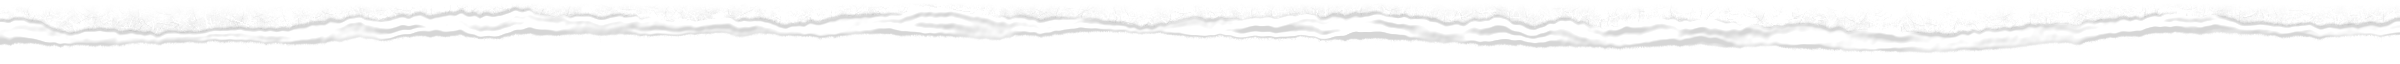
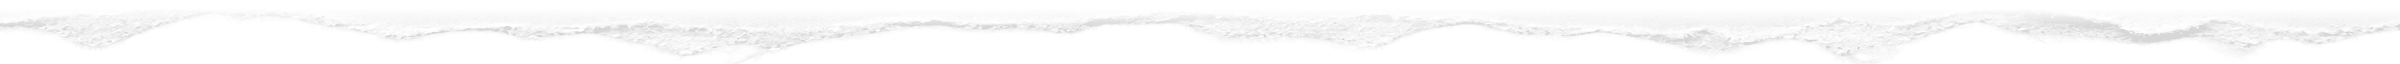
feat: add generated eggshell torn paper artwork

diff --git a/tools/prepare_torn_paper.py b/tools/prepare_torn_paper.py
@@ -1,0 +1,69 @@
+#!/usr/bin/env python3
+"""Prepare the generated eggshell master: python3 tools/prepare_torn_paper.py.
+
+Only numpy and Pillow are needed. The original procedural alternative remains
+in torn_paper.py. Prompt and provenance are in torn-paper-generation.json.
+"""
+from pathlib import Path
+import argparse
+
+import numpy as np
+from PIL import Image
+
+
+def save(folder, name, rgb, alpha, lossless=False):
+    rgba = np.dstack((np.clip(rgb, 0, 255).astype('uint8'), alpha))
+    image = Image.fromarray(rgba)
+    image.save(folder / (name + '.png'), optimize=True)
+    image.save(folder / (name + '.webp'), lossless=lossless, quality=90,
+               alpha_quality=100, method=6, exact=True)
+
+
+def main():
+    root = Path(__file__).resolve().parent.parent
+    parser = argparse.ArgumentParser(description=__doc__)
+    parser.add_argument('--out', type=Path, default=root / 'uploads')
+    args = parser.parse_args()
+    args.out.mkdir(parents=True, exist_ok=True)
+    source = Image.open(root / 'tools/torn-paper-source.png').convert('RGBA')
+    raw = np.array(source)
+    solid = raw[..., 3] > 180
+    first = solid.argmax(axis=0)
+    last = len(raw) - 1 - solid[::-1].argmax(axis=0)
+    # The generated paper body is slightly translucent; seal only its interior.
+    y = np.arange(len(raw))[:, None]
+    raw[..., 3] = np.where((y >= first) & (y <= last), 255, raw[..., 3])
+    raw[..., 3][raw[..., 3] < 12] = 0
+    # Crop vertical blank space only. The strip spans the width without repeats.
+    top, bottom = max(0, first.min() - 12), min(len(raw), last.max() + 13)
+    raw = raw[top:bottom]
+    alpha = np.array(Image.fromarray(raw[..., 3]).resize((2400, 260), Image.Resampling.LANCZOS))
+    # Neutralise generated fringe colour noise, retaining its light and relief.
+    grey = np.array(Image.fromarray(raw[..., :3]).convert('L').resize(
+        (2400, 260), Image.Resampling.LANCZOS)).astype(float)
+    body = np.median(grey[90:170])
+    core = np.clip((grey - body) / max(250 - body, 1), 0, 1)[..., None]
+    rgb = np.array([243, 237, 217]) + (grey - body)[..., None]
+    rgb += core * np.array([0, 5, 15])
+    rgb = np.clip(rgb, 210, 255)
+    rgb[alpha == 0] = [243, 237, 217]
+    save(args.out, 'torn-band', rgb, alpha)
+    white = np.full((64, 2400, 3), 255, dtype='uint8')
+    for side, section in [('bottom', slice(-64, None)), ('top', slice(0, 64))]:
+        edge_alpha = alpha[section].copy()
+        inner = slice(0, 2) if side == 'bottom' else slice(-2, None)
+        edge_alpha[inner] = 255
+        # Relief can only darken the section; the lip stays the section colour.
+        shade = np.clip(250 - grey[section], 0, 40)
+        fade = np.clip((np.arange(64) - 8) / 18, 0, 1)
+        if side == 'top':
+            fade = fade[::-1]
+        texture = np.repeat((255 - shade * fade[:, None])[..., None], 3, axis=2)
+        texture[inner] = 255
+        texture[edge_alpha == 0] = 255
+        save(args.out, 'torn-' + side, white, edge_alpha, lossless=True)
+        save(args.out, 'torn-' + side + '-tex', texture, edge_alpha)
+
+
+if __name__ == '__main__':
+    main()

diff --git a/README.md b/README.md
@@ -86,34 +86,41 @@ coloured card wearing torn edges.
 
 ### Regenerating the torn paper
 
-Every torn-paper asset is generated from scratch by `tools/torn_paper.py`
-(numpy and Pillow, nothing else): a fractal tear line; a wide white lip where
-the torn core rolls up, modelled as a height field with creases that wander
-and fade; a fine fuzz of fibres past the edge; laid-paper ribbing, a fibre
-network and mottling; and relief lighting from above. Being procedural, the files
-are original work with no stock licence attached.
+The current artwork uses **warm eggshell / light yellow** paper, as requested by
+Cleo on 2026-10-15, replacing the brief's neutral grey. Its original master was
+generated from scratch with OpenAI's built-in image generation tool, without
+stock images, tracing or sampling the historical reference. The source is
+`tools/torn-paper-source.png`; the full prompt and provenance are in
+`tools/torn-paper-generation.json`.
+
+Under the [OpenAI Terms of Use](https://openai.com/policies/terms-of-use/)
+(effective January 1, 2026), as between the user and OpenAI and to the extent
+permitted by applicable law, the user owns the output. Output may not be unique;
+use remains subject to applicable terms and third-party rights. These assets
+are AI-generated, not photographs or hand-made artwork.
+
+Rebuild the ten site-ready files deterministically from the saved master:
 
 ```bash
 pip install numpy pillow
-python3 tools/torn_paper.py               # rewrite uploads/torn-*
-python3 tools/torn_paper.py --seed 7      # a different tear
-python3 tools/torn_paper.py --width 3600 --edge-height 78 --band-height 390
+python3 tools/prepare_torn_paper.py
+python3 tools/check_torn_paper.py
 ```
 
-Each asset is written twice: `.webp` is what the site loads (about 115 KB for
-the three it uses), `.png` is the lossless greyscale master for design tools and site
-builders. All are 2400px wide (the 1200px page at 2x; edges are 64px tall,
-matching `--torn-height: 32px`) on a **transparent
-background**, and every pixel under the alpha — transparent and
-half-transparent fibres included — is paper colour, never black, so they
-don't pick up a dark fringe when scaled, masked or dropped onto another
-background.
+The existing `tools/torn_paper.py` remains available as the older procedural
+alternative; running it overwrites the eggshell set with its grey version.
 
-> **Contrast.** The strip's paper is neutral grey (218), so the masthead's
-> links use `--strip-ink` `#5a5249` (5.49:1) rather than `--body`. Body text,
-> labels and both corals were also darkened a step from the mockup's values so
-> every text pair on paper and sheet clears WCAG AA 4.5:1 — see the comment on
-> the tokens in `assets/styles.css`.
+Each asset ships as a lossless PNG master and a WebP for the site. The header is
+2400×260; the four edge assets are 2400×64, matching the unchanged
+`--torn-height: 32px`. White mask files retain the paper silhouette; matching
+greyscale relief files have identical alpha and fade to opaque pure white on
+the two inner rows, so they join the section without a seam. The full-colour
+header carries a warm eggshell body and creamy exposed fibres.
+
+All files use straight alpha with paper-coloured RGB even in transparent pixels;
+WebP is saved with `exact=True`. There is no baked outer shadow or repeated
+tile. The checker verifies dimensions, readable navigation contrast and the
+150 KB combined budget for the three loaded WebP files.
 
 ## Photography
 
